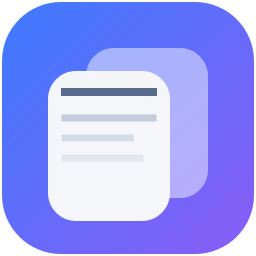
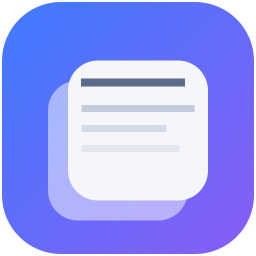
v0.3.0：改为真正的 Plasma 小组件（plasmoid）+ 图标重设计
- 新增 plasmoid/（metadata.json + contents/ui/main.qml）：
  QML 面板按钮，点击执行 toggleEffect("overview")，可在
  「添加小组件」中搜索到并固定到任务栏（用户指出 .desktop 应用
  无法通过组件搜索添加）
- install.sh 用 kpackagetool6 安装小组件（id com.azen.azenview），
  保留 .desktop 应用菜单入口作为备用
- 图标按用户描述重画：两个等大方块、上方块右上偏移约 40/280、
  重叠约 75%（半透明白底块 + 白色带内容线方块）
- 已在本机安装并验证（kpackagetool6 通过）

Changed region(s): [[0.1875, 0.1875, 0.8125, 0.875]]

diff --git a/plasmoid/contents/ui/main.qml b/plasmoid/contents/ui/main.qml
@@ -1,0 +1,37 @@
+/*
+ * AzenView plasmoid — 面板按钮，点击唤起/收起 KWin Overview（任务视图）。
+ * 通过 org.kde.kwin.Effects.toggleEffect("overview") 触发，等同按 Meta+W。
+ */
+import QtQuick
+import org.kde.plasma.plasmoid
+import org.kde.plasma.core as PlasmaCore
+import org.kde.plasma.components as PlasmaComponents3
+
+PlasmoidItem {
+    id: root
+
+    switchWidth: PlasmaCore.Units.iconSizes.smallMedium
+    switchHeight: PlasmaCore.Units.iconSizes.smallMedium
+
+    toolTipMainText: "AzenView"
+    toolTipSubText: "切换任务视图 (Overview)"
+
+    // 执行系统命令（点击按钮时触发 toggleEffect）
+    PlasmaCore.DataSource {
+        id: executable
+        engine: "executable"
+        connectedSources: []
+        onNewData: disconnectSource(sourceName)
+    }
+
+    fullRepresentation: PlasmaComponents3.ToolButton {
+        Layout.minimumWidth: PlasmaCore.Units.iconSizes.smallMedium
+        Layout.minimumHeight: PlasmaCore.Units.iconSizes.smallMedium
+        icon.name: "azenview"
+        Accessible.name: "AzenView"
+
+        onClicked: executable.connectSource(
+            "qdbus6 org.kde.KWin /Effects org.kde.kwin.Effects.toggleEffect overview"
+        )
+    }
+}

diff --git a/tools/make_icon.py b/tools/make_icon.py
@@ -32,24 +32,33 @@ def render(size: int) -> QImage:
     p.setBrush(QBrush(grad))
     p.drawRoundedRect(QRectF(4 * s, 4 * s, 504 * s, 504 * s), 118 * s, 118 * s)
 
-    # ---- 后窗口（白色半透明，偏右上） ----
-    p.setPen(Qt.PenStyle.NoPen)
-    p.setBrush(QColor(255, 255, 255, 120))
-    p.drawRoundedRect(QRectF(172 * s, 96 * s, 244 * s, 300 * s), 56 * s, 56 * s)
+    # ---- 两个等大的方块，上方向右上偏移，重叠约 75% ----
+    # 边长 280；偏移 d = 280 × (1 − √0.75) ≈ 40
+    side = 280.0
+    d = 40.0
+    ax, ay = 96.0, 161.0                    # 下方块（左）
+    bx, by = ax + d, ay - d                 # 上方块（右上偏移）
 
-    # ---- 前窗口（白色，偏左下，带内容线条） ----
+    # 下方块：白色半透明
+    p.setBrush(QColor(255, 255, 255, 125))
+    p.drawRoundedRect(QRectF(ax * s, ay * s, side * s, side * s), 60 * s, 60 * s)
+
+    # 上方块：白色实底 + 窗口内容线
     p.setBrush(QColor("#f4f6fa"))
-    p.drawRoundedRect(QRectF(96 * s, 142 * s, 244 * s, 300 * s), 56 * s, 56 * s)
+    p.drawRoundedRect(QRectF(bx * s, by * s, side * s, side * s), 60 * s, 60 * s)
 
-    # 前窗口的标题条与内容线
     p.setPen(QPen(QColor("#5a6b8c"), 16 * s))
-    p.drawLine(QPointF(130 * s, 184 * s), QPointF(306 * s, 184 * s))   # 标题线
+    p.drawLine(QPointF((bx + 34) * s, (by + 44) * s),
+               QPointF((bx + 226) * s, (by + 44) * s))          # 标题线
     p.setPen(QPen(QColor("#c3ccdb"), 14 * s))
-    p.drawLine(QPointF(130 * s, 236 * s), QPointF(306 * s, 236 * s))   # 内容线 1
+    p.drawLine(QPointF((bx + 34) * s, (by + 96) * s),
+               QPointF((bx + 246) * s, (by + 96) * s))          # 内容线 1
     p.setPen(QPen(QColor("#d4dae6"), 14 * s))
-    p.drawLine(QPointF(130 * s, 276 * s), QPointF(260 * s, 276 * s))   # 内容线 2（短）
+    p.drawLine(QPointF((bx + 34) * s, (by + 136) * s),
+               QPointF((bx + 190) * s, (by + 136) * s))         # 内容线 2（短）
     p.setPen(QPen(QColor("#e2e7ef"), 14 * s))
-    p.drawLine(QPointF(130 * s, 316 * s), QPointF(280 * s, 316 * s))   # 内容线 3
+    p.drawLine(QPointF((bx + 34) * s, (by + 176) * s),
+               QPointF((bx + 216) * s, (by + 176) * s))         # 内容线 3
 
     p.end()
     return img

diff --git a/azenview/__init__.py b/azenview/__init__.py
@@ -8,4 +8,4 @@
 """
 
 APP_NAME = "AzenView"
-APP_VERSION = "0.2.0"
+APP_VERSION = "0.3.0"

diff --git a/README.md b/README.md
@@ -1,58 +1,61 @@
 # AzenView 🖥
 
-A one-click **Task View button for KDE Plasma**: pin it to your panel, click
-it, and KWin's built-in **Overview** effect pops up — exactly like pressing
-`Meta+W`, and just like the Windows task-view button.
+A one-click **Task View button for KDE Plasma** — a real Plasma widget
+(plasmoid) you can pin to the panel: click it and KWin's built-in
+**Overview** effect pops up, exactly like pressing `Meta+W` and just like the
+Windows task-view button.
 
-> Python 3 + PyQt6 · triggers KWin over D-Bus · tiny, no daemons, no UI of its own
+> Plasma 6 plasmoid (QML) · triggers KWin over D-Bus · no daemons, tiny
 
 ## ✨ What it does
 
 KDE Plasma already ships a full task-view (the *Overview* effect): it shows
-every virtual desktop, all their windows, lets you **click a desktop to
+every virtual desktop and all their windows, lets you **click a desktop to
 switch**, **click a window to focus** it, and **drag windows across desktops**.
 
-AzenView is just the convenient button for it — one click toggles the
-Overview open/closed, so you can pin it right next to the search box like on
-Windows.
-
-## 🚀 Running
-
-```bash
-cd ~/Desktop/azenview
-./run.sh          # uses the system PyQt6 (Arch: sudo pacman -S python-pyqt6)
-```
+AzenView is the button for it — one click toggles the Overview open/closed,
+ready to be pinned right next to the search box like on Windows.
 
 ## 📦 Install & pin to the panel
 
 ```bash
 cd ~/Desktop/azenview
-./install.sh      # installs icon + app menu entry (user directory, no sudo)
+./install.sh      # installs the plasmoid + icon + app menu entry (no sudo)
 ```
 
-Then: right-click the panel → Edit Panel → Add Widgets → search
-**AzenView** → add it (place it next to the search box, like Windows).
+Then: right-click the panel → **Edit Panel** → **Add Widgets** → search
+**AzenView** → add it and drag it next to the search box.
 
 ## 🛠 How it works
 
-1. Calls `org.kde.KWin /Effects` → `isEffectLoaded("overview")`;
-   loads the effect first if it isn't loaded
-2. Calls `toggleEffect("overview")` to pop the Overview open or closed
-3. Fallback: invokes the `Overview` global shortcut through
-   `org.kde.kglobalaccel` (same as pressing `Meta+W`)
+The plasmoid button runs:
 
-If Overview is disabled (System Settings → Desktop Effects → Overview),
-AzenView shows a small dialog explaining what to enable.
+```
+qdbus6 org.kde.KWin /Effects org.kde.kwin.Effects.toggleEffect overview
+```
+
+If Overview is disabled (System Settings → Desktop Effects → Overview), turn
+it on — the widget also ships a standalone fallback (`run.sh`) that reports
+problems with a dialog.
 
 ## 📁 Project structure
 
 ```
 azenview/
-├── main.py                 # Entry point: trigger Overview, then exit
+├── plasmoid/                # The Plasma widget (this is the main thing)
+│   ├── metadata.json        # KPackage metadata (id com.azen.azenview)
+│   └── contents/ui/main.qml # Panel button → toggleEffect("overview")
+├── main.py                  # Standalone fallback (CLI / app menu entry)
 ├── run.sh / install.sh
-├── tools/make_icon.py      # Icon generator (two overlapping windows)
-├── assets/                 # azenview.png + hicolor multi-size icons
+├── tools/make_icon.py       # Icon generator (two offset squares, ~75% overlap)
+├── assets/                  # azenview.png + hicolor multi-size icons
 └── azenview/
-    ├── __init__.py         # App name & version
-    └── kwin.py             # KWin D-Bus backend (Overview + desktop info)
+    ├── __init__.py          # App name & version
+    └── kwin.py              # KWin D-Bus backend (Overview trigger)
 ```
+
+## 🎨 Icon
+
+Two equal rounded squares on a blue-purple gradient: the top one offset to the
+top-right with ~75% overlap, styled like a little window card. Regenerate with
+`python3 tools/make_icon.py` and re-run `./install.sh`.
